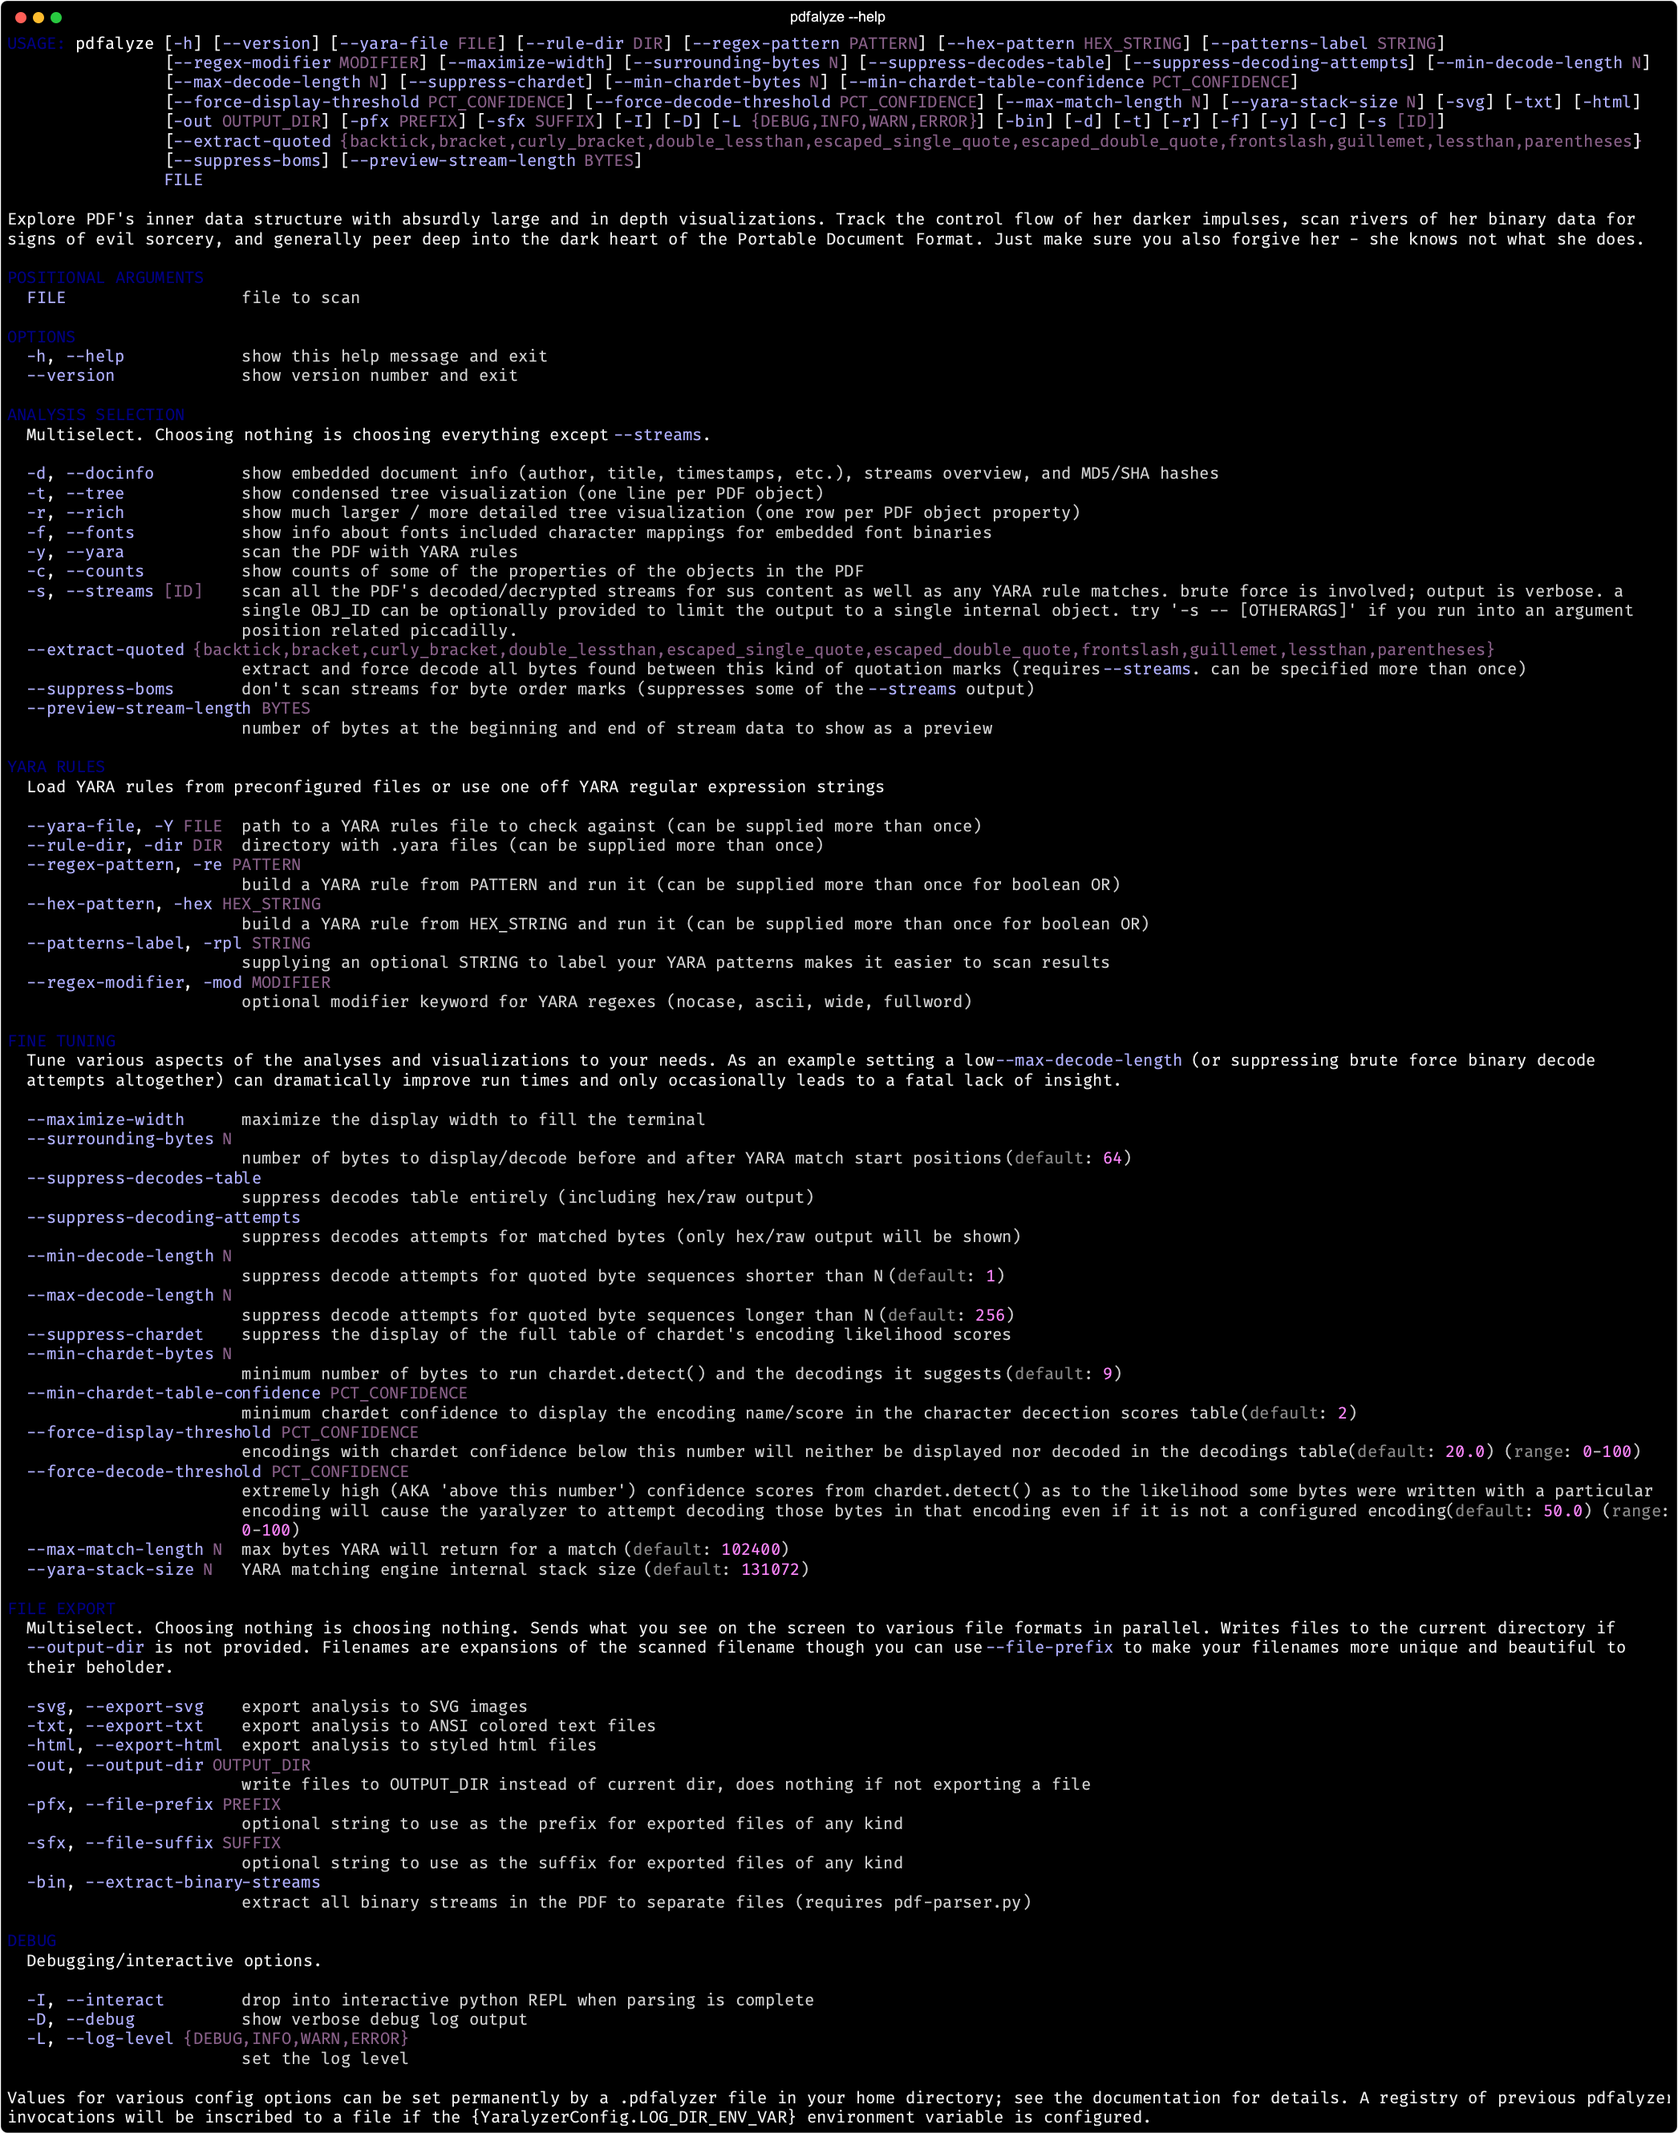
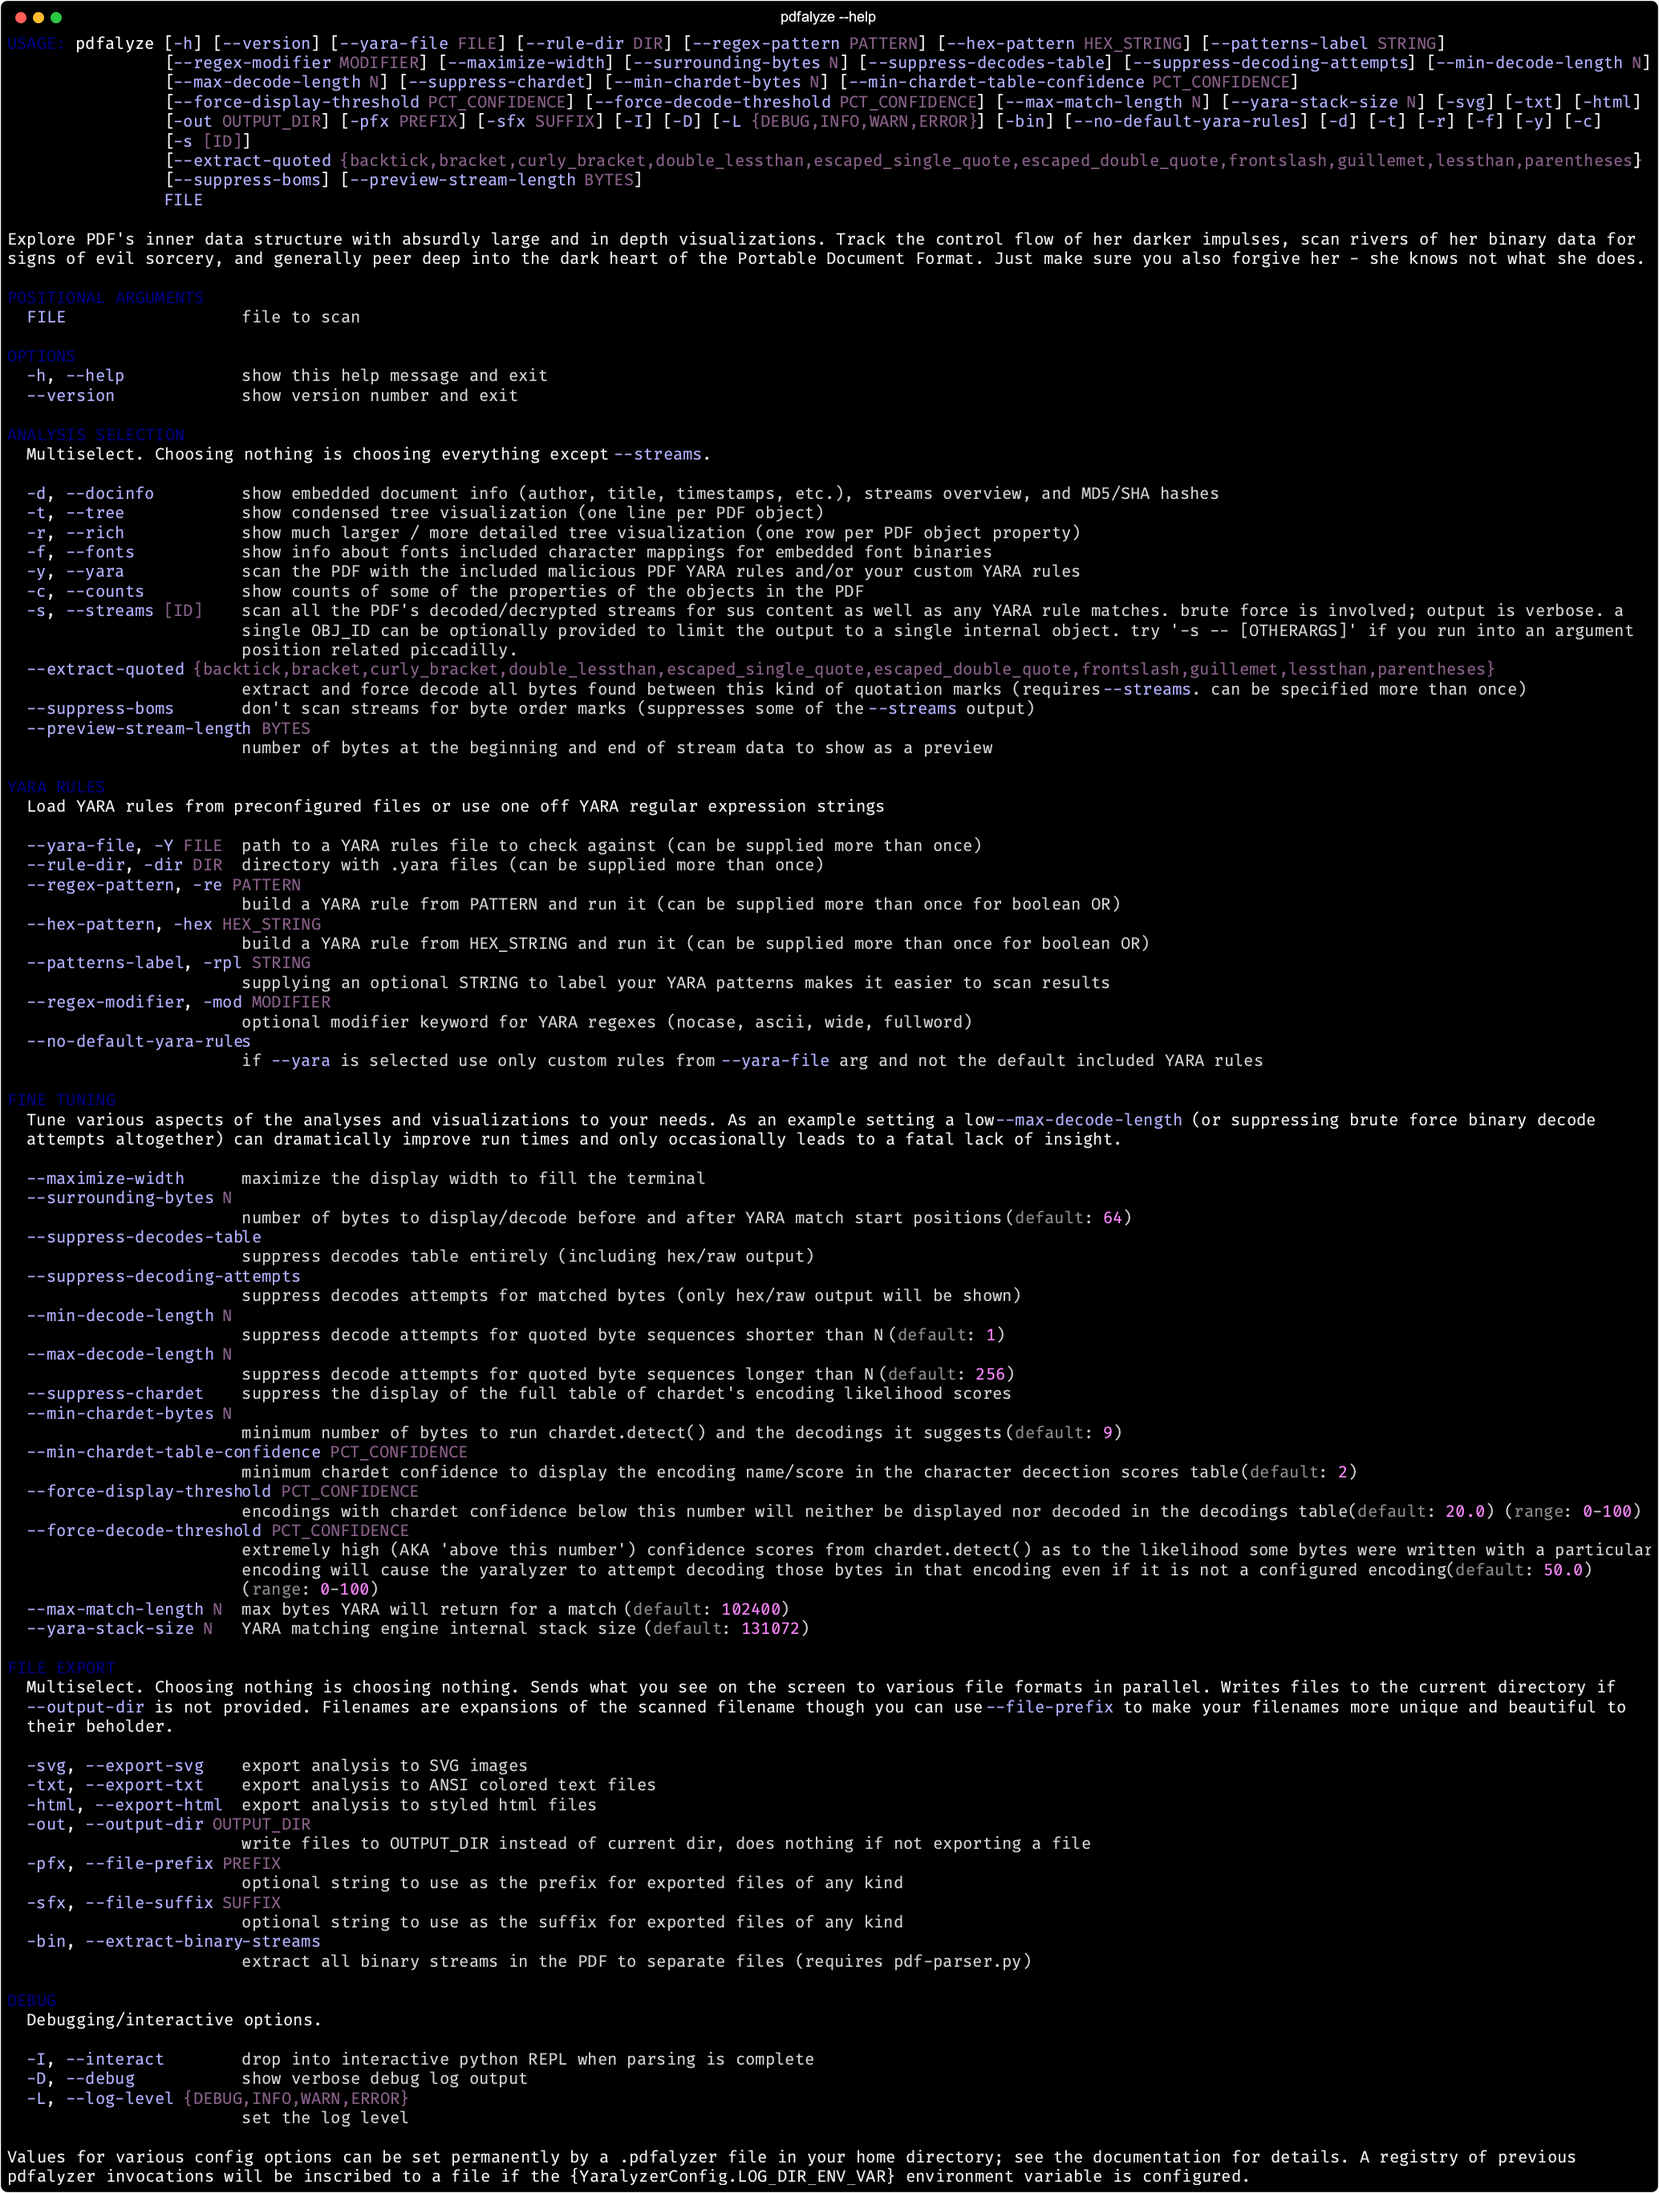
Add --no-default-yara-rules option so users can use just their own custom YARA rules without the defaults that are included

Changed region(s): [[0.0, 0.0, 1.0, 1.0], [0.5571, 0.8113, 0.619, 0.8425], [0.0, 0.0, 0.0309, 0.0312]]

diff --git a/pdfalyzer/util/argument_parser.py b/pdfalyzer/util/argument_parser.py
@@ -9,7 +9,7 @@ from typing import List
 from rich_argparse_plus import RichHelpFormatterPlus
 from rich.prompt import Confirm
 from rich.text import Text
-from yaralyzer.util.argument_parser import export, parser, parse_arguments as parse_yaralyzer_args
+from yaralyzer.util.argument_parser import export, parser, parse_arguments as parse_yaralyzer_args, source
 from yaralyzer.util.logging import log, log_and_print, log_argparse_result, log_current_config, log_invocation
 
 from pdfalyzer.config import ALL_STREAMS, PdfalyzerConfig
@@ -50,8 +50,13 @@ export.add_argument('-bin', '--extract-binary-streams',
                     const='bin',
                     help='extract all binary streams in the PDF to separate files (requires pdf-parser.py)')
 
+# Add one more option to the YARA rules section
+source.add_argument('--no-default-yara-rules',
+                    action='store_true',
+                    help='if --yara is selected use only custom rules from --yara-file arg and not the default included YARA rules')
 
-#  Note that we extend the yaralyzer's parser and export
+
+# Note that we extend the yaralyzer's parser and export
 parser = ArgumentParser(
     formatter_class=RichHelpFormatterPlus,
     description=DESCRIPTION,
@@ -78,7 +83,7 @@ select.add_argument('-f', '--fonts', action='store_true',
                     help="show info about fonts included character mappings for embedded font binaries")
 
 select.add_argument('-y', '--yara', action='store_true',
-                    help="scan the PDF with YARA rules")
+                    help="scan the PDF with the included malicious PDF YARA rules and/or your custom YARA rules")
 
 select.add_argument('-c', '--counts', action='store_true',
                     help='show counts of some of the properties of the objects in the PDF')
@@ -127,9 +132,12 @@ def parse_arguments():
 
     if not args.streams:
         if args.extract_quoteds:
-            raise ArgumentError(None, "--extract-quoted does nothing if --streams is not selected")
+            exit_with_error("--extract-quoted does nothing if --streams is not selected")
         if args.suppress_boms:
             log.warning("--suppress-boms has nothing to suppress if --streams is not selected")
+
+    if args.no_default_yara_rules and not args.yara_rules_files:
+        exit_with_error("--no-default-yara-rules requires at least one --yara-file argument")
 
     # File export options
     if args.export_svg or args.export_txt or args.export_html or args.extract_binary_streams:
@@ -149,8 +157,8 @@ def parse_arguments():
 
 def output_sections(args, pdfalyzer) -> List[OutputSection]:
     """
-    Determine which of the tree visualizations, font scans, etc were requested.
-    If nothing was specified the default is to output all sections.
+    Determine which of the tree visualizations, font scans, etc should be run.
+    If nothing is specified output ALL sections other than --streams which is v. slow/verbose.
     """
     # Create a partial for print_font_info() because it's the only one that can take an argument
     # partials have no __name__ so update_wrapper() propagates the 'print_font_info' as this partial's name
@@ -158,7 +166,8 @@ def output_sections(args, pdfalyzer) -> List[OutputSection]:
     stream_scan = partial(pdfalyzer.print_streams_analysis, idnum=stream_id)
     update_wrapper(stream_scan, pdfalyzer.print_streams_analysis)
 
-    # The first element string matches the argument in 'select' group.
+    # 1st element string matches the argument in 'select' group
+    # 2nd is fxn to call if selected.
     # Top to bottom is the default order of output.
     possible_output_sections = [
         OutputSection(DOCINFO, pdfalyzer.print_document_info),
@@ -246,7 +255,7 @@ def ask_to_proceed() -> None:
 def exit_with_error(error_message: str|None = None) -> None:
     """Print 'error_message' and exit with status code 1."""
     if error_message:
-        print_highlighted(error_message, style='bold red')
+        print_highlighted(Text('').append('ERROR', style='bold red').append(f': {error_message}'))
 
-    print_highlighted('Exiting...', style='red')
+    print_highlighted('Exiting...', style='dim red')
     sys.exit(1)

diff --git a/tests/test_pdfalyze.py b/tests/test_pdfalyze.py
@@ -18,13 +18,17 @@ def test_help_option():
     assert len(help_text.split('\n')) > 50
 
 
-def test_bad_args(analyzing_malicious_pdf_path):
+# Can't use match='...' because the error msg goes to STDERR and is not captured by Python
+# TODO: this test could be more accurate if we could both get the CalledProcessError AND the STDERR output?
+def test_bad_args(additional_yara_rules_path, analyzing_malicious_pdf_path):
     with pytest.raises(CalledProcessError):
         _run_with_args(analyzing_malicious_pdf_path, '--extract-quoted', 'noquotes')
     with pytest.raises(CalledProcessError):
         _run_with_args(analyzing_malicious_pdf_path, '--extract-quoted', 'backtick', '--tree')
     with pytest.raises(CalledProcessError):
         _run_with_args(analyzing_malicious_pdf_path, '--force-decode-threshold', '105')
+    with pytest.raises(CalledProcessError):
+        _run_with_args(analyzing_malicious_pdf_path, '--no-default-yara-rules')
 
 
 def test_pdfalyze_CLI_basic_tree(adobe_type1_fonts_pdf_path, analyzing_malicious_pdf_path):
@@ -49,6 +53,7 @@ def test_pdfalyze_CLI_streams_scan(adobe_type1_fonts_pdf_path):
 
 def test_yara_rules_option(adobe_type1_fonts_pdf_path, additional_yara_rules_path):
     _assert_args_yield_lines(2447, adobe_type1_fonts_pdf_path, '-Y', additional_yara_rules_path)
+    _assert_args_yield_lines(1797, adobe_type1_fonts_pdf_path, '--no-default-yara-rules', '-Y', additional_yara_rules_path)
 
 
 @pytest.mark.slow

diff --git a/pdfalyzer/detection/yaralyzer_helper.py b/pdfalyzer/detection/yaralyzer_helper.py
@@ -8,6 +8,8 @@ from typing import Optional, Union
 from yaralyzer.config import YaralyzerConfig
 from yaralyzer.yaralyzer import Yaralyzer
 
+from pdfalyzer.config import PdfalyzerConfig
+
 YARA_RULES_DIR = files('pdfalyzer').joinpath('yara_rules')
 
 YARA_RULES_FILES = [
@@ -32,8 +34,11 @@ def _build_yaralyzer(scannable: Union[bytes, str], label: Optional[str] = None) 
     with as_file(YARA_RULES_DIR.joinpath(YARA_RULES_FILES[0])) as yara0:
         with as_file(YARA_RULES_DIR.joinpath(YARA_RULES_FILES[1])) as yara1:
             with as_file(YARA_RULES_DIR.joinpath(YARA_RULES_FILES[2])) as yara2:
-                rules_paths = [str(y) for y in [yara0, yara1, yara2]]
-                rules_paths += YaralyzerConfig.args.yara_rules_files or []
+                # If there is a custom yara_rules argument file use that instead of the files in the yara_rules/ dir
+                rules_paths = YaralyzerConfig.args.yara_rules_files or []
+
+                if not YaralyzerConfig.args.no_default_yara_rules:
+                    rules_paths += [str(y) for y in [yara0, yara1, yara2]]
 
                 try:
                     return Yaralyzer.for_rules_files(rules_paths, scannable, label)

diff --git a/pdfalyzer/output/pdfalyzer_presenter.py b/pdfalyzer/output/pdfalyzer_presenter.py
@@ -124,7 +124,7 @@ class PdfalyzerPresenter:
                 console.print(build_decoding_stats_table(binary_scanner), justify='center')
 
     def print_yara_results(self) -> None:
-        """Scan the overall PDF and each individual binary stream in it with yara_rules/ files"""
+        """Scan the main PDF and each individual binary stream in it with yara_rules/*.yara files"""
         print_section_header(f"YARA Scan of PDF rules for '{self.pdfalyzer.pdf_basename}'")
         YaralyzerConfig.args.standalone_mode = True  # TODO: using 'standalone mode' like this kind of sucks
 

diff --git a/pdfalyzer/__init__.py b/pdfalyzer/__init__.py
@@ -51,6 +51,7 @@ def pdfalyze():
         log_and_print(f"Binary stream extraction complete, files written to '{args.output_dir}'.\nExiting.\n")
         sys.exit()
 
+    # The method that gets called is related to the argument name. See 'possible_output_sections' list in argument_parser.py
     # Analysis exports wrap themselves around the methods that actually generate the analyses
     for (arg, method) in output_sections(args, pdfalyzer):
         if args.output_dir:

diff --git a/CHANGELOG.md b/CHANGELOG.md
@@ -1,4 +1,5 @@
 # NEXT RELEASE
+* Add `--no-default-yara-rules` command line option so users can use _only_ their own custom YARA rules files if they want. Previously you could only use custom YARA rules _in addition to_ the default rules; now you can just skip the default rules.
 
 # 1.15.0
 * Add `combine_pdfs` command line script to merge a bunch of PDFs into one
